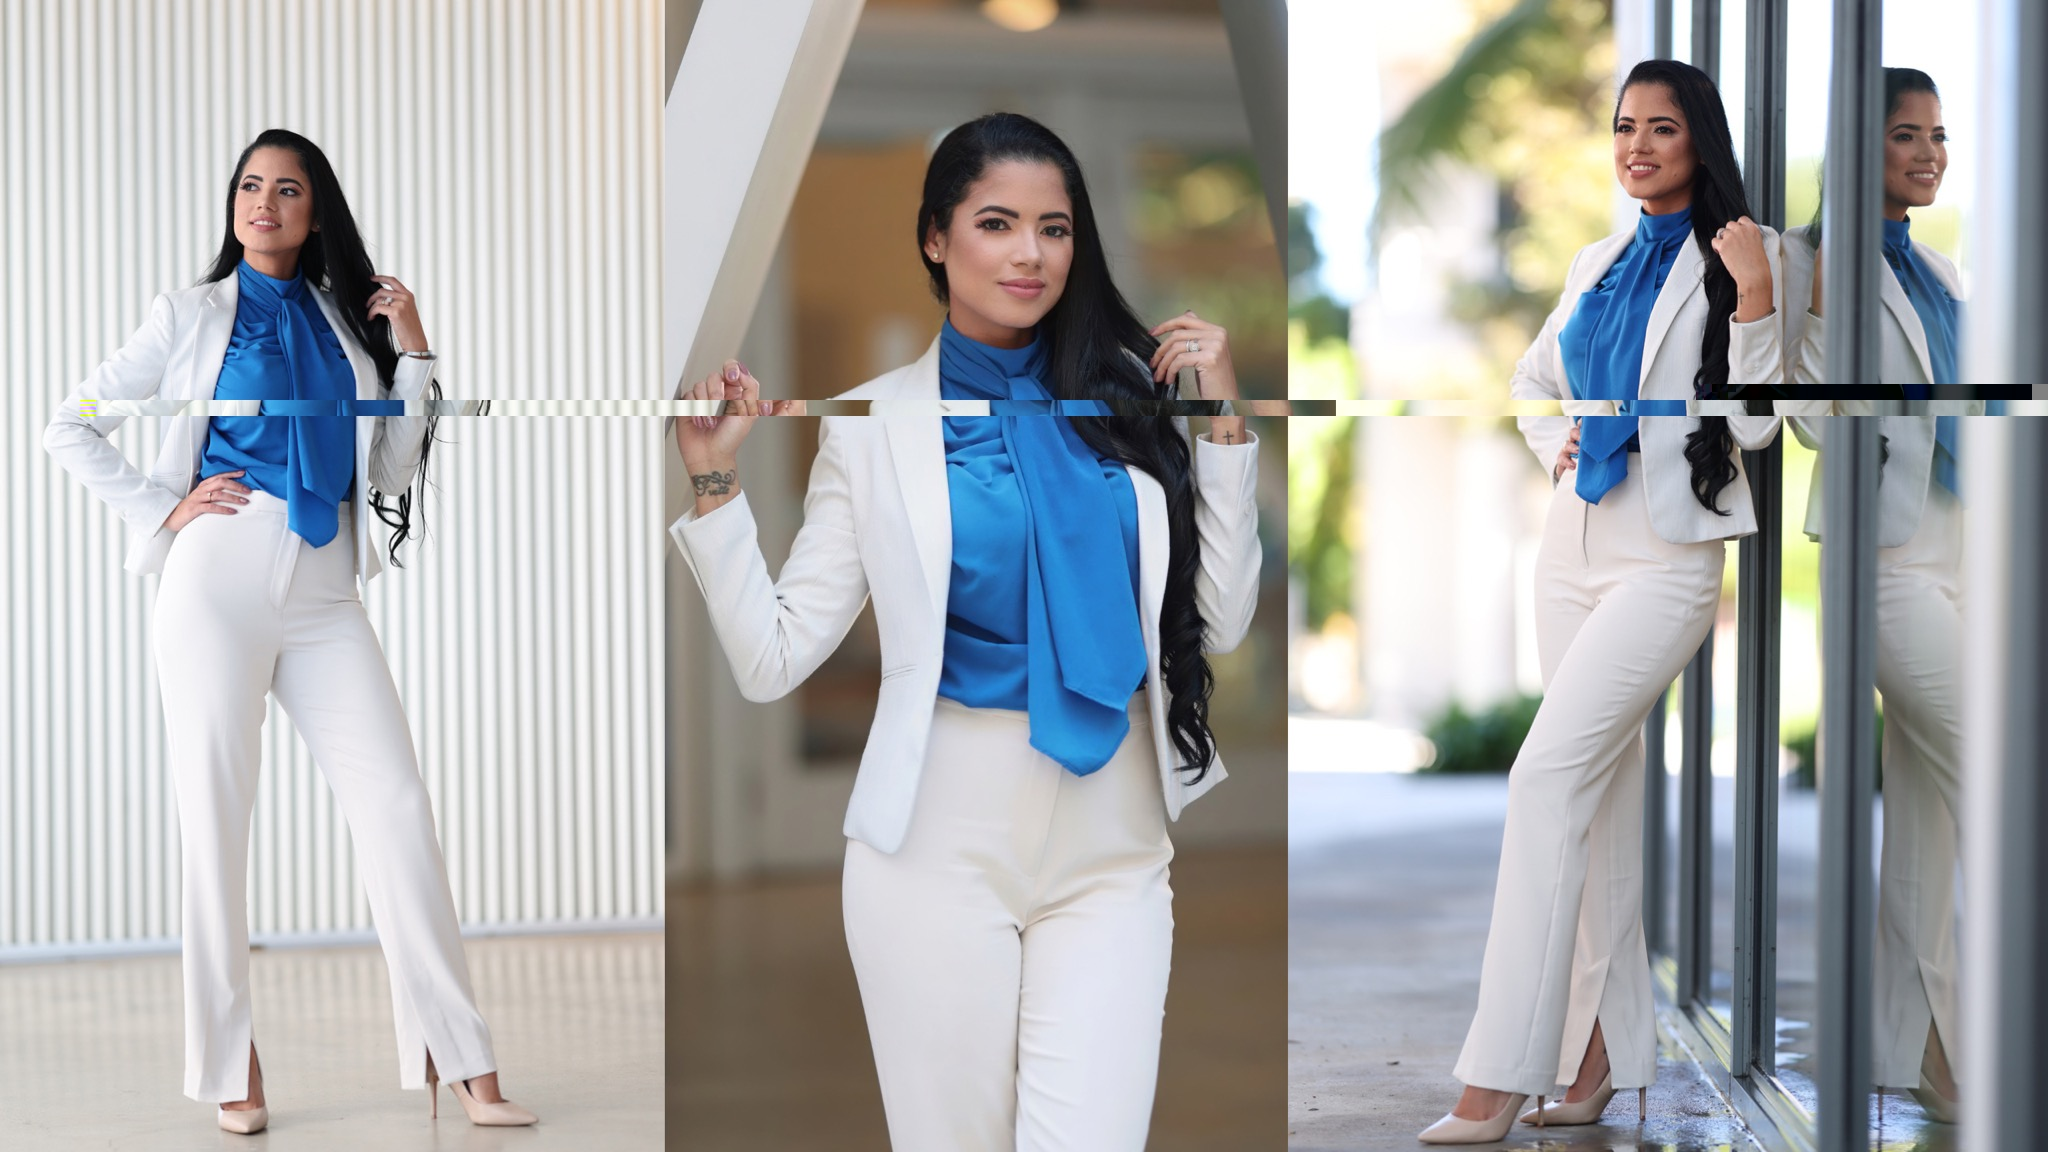
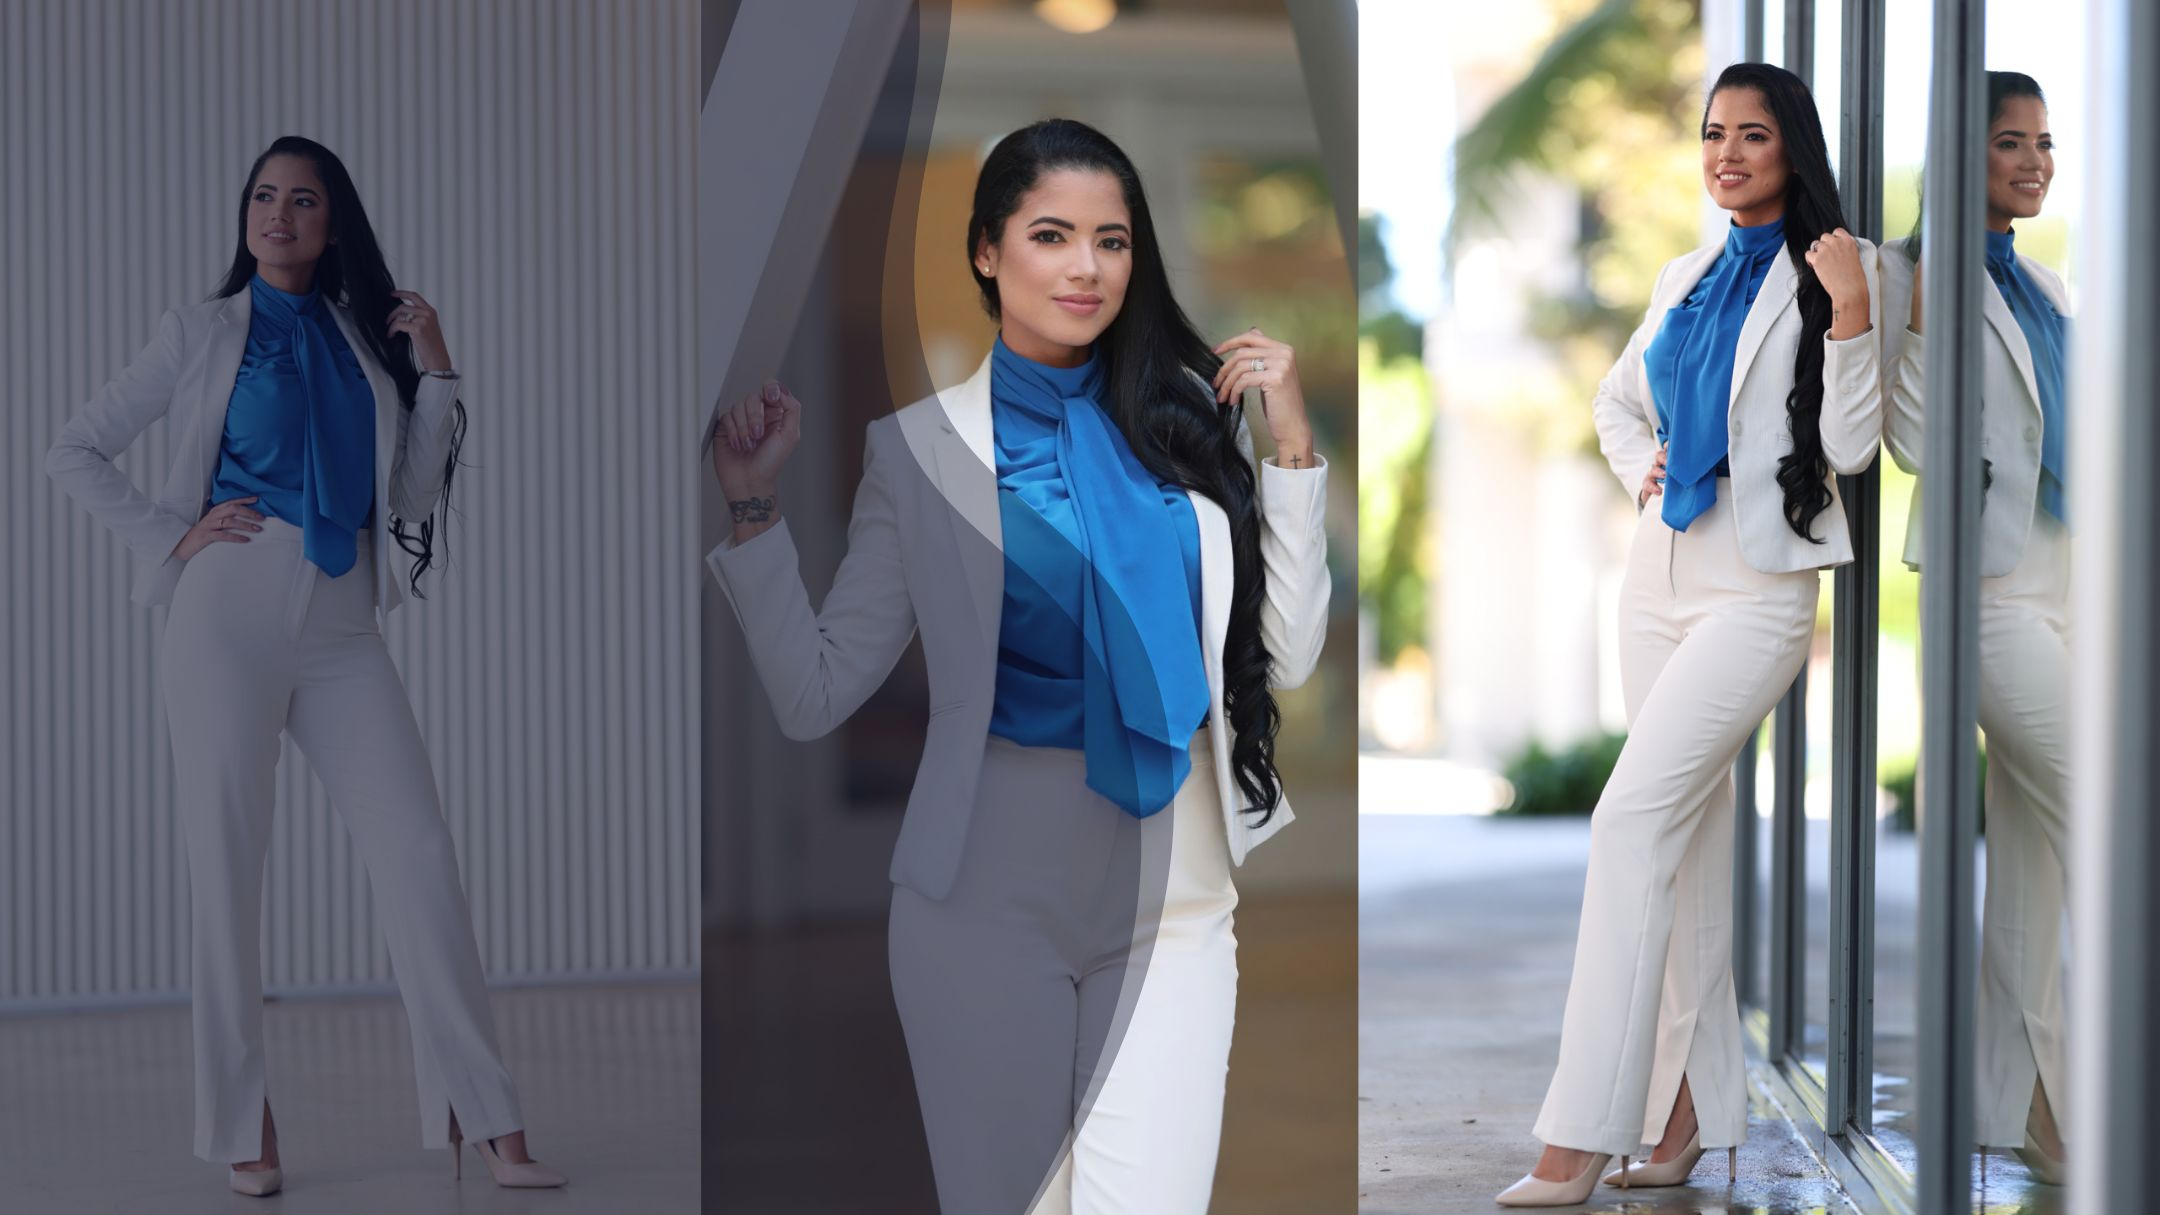
background modificado

diff --git a/css/styles.css b/css/styles.css
@@ -360,9 +360,9 @@ li.active:hover::before {
   width: 100%;
   height: 100%;
   padding: 20px;
-  background-image: url("../assets/images/hero/hero-bg-1.jpg");
+  background-image: url("../assets/images/hero/livette-insurance-owner.jpg");
   background-size: cover;
-  background-position: 85% 0%;
+  background-position: center top;
 }
 .section__presentation__gradient {
   position: absolute;
@@ -371,7 +371,7 @@ li.active:hover::before {
   bottom: 0px;
   left: 0px;
   background-color: var(--main-color-dark);
-  opacity: 0.5;
+  opacity: 0.2;
 }
 .section__presentation .section__presentation__container {
   z-index: 1;

diff --git a/css/sass/presentation.scss b/css/sass/presentation.scss
@@ -6,9 +6,9 @@
     width: 100%;
     height: 100%;
     padding: 20px;
-    background-image: url("../assets/images/hero/hero-bg-1.jpg");
+    background-image: url("../assets/images/hero/livette-insurance-owner.jpg");
     background-size: cover;
-    background-position: 85% 0%;
+    background-position: center top;
 
     &__gradient {
         position: absolute;
@@ -17,7 +17,7 @@
         bottom: 0px;
         left: 0px;
         background-color: var(--main-color-dark);
-        opacity: 0.5;
+        opacity: 0.2;
     }
 
     .section__presentation__container {
